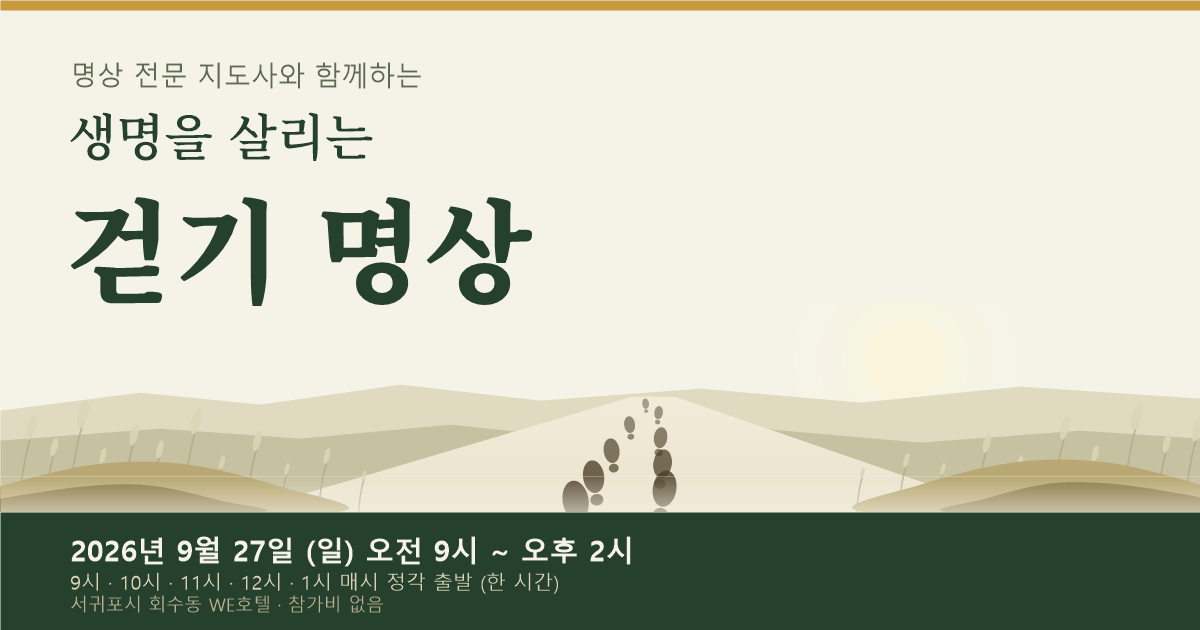
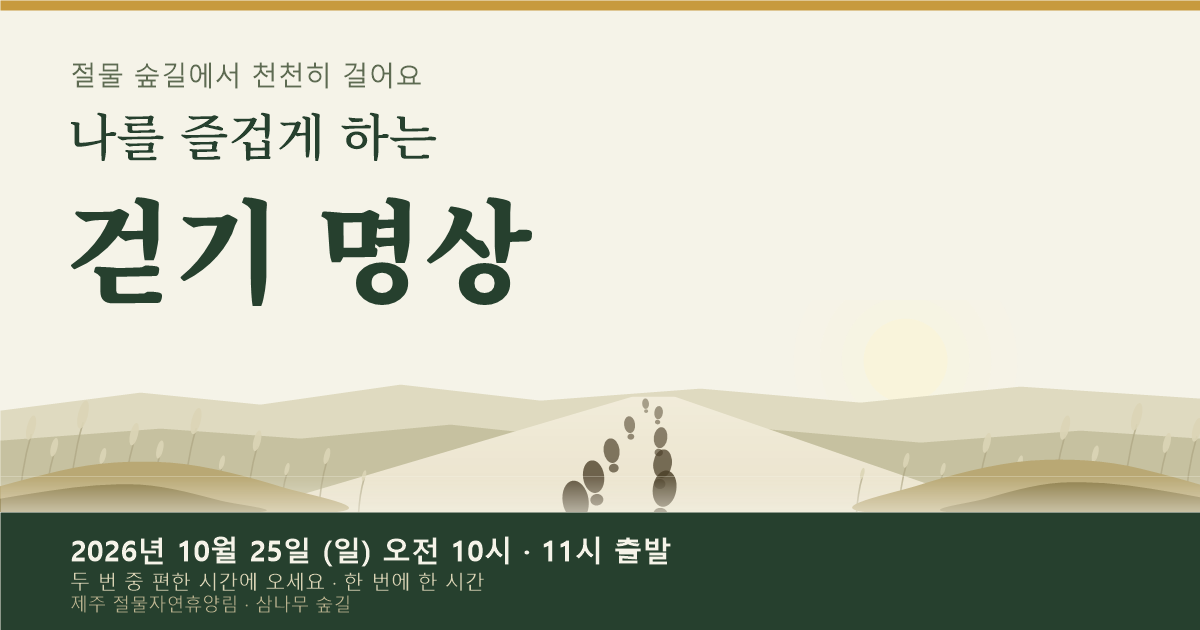
행사 교체: 나를 즐겁게 하는 걷기명상 (절물자연휴양림)
- 2026-10-25 제주 절물자연휴양림, 오전 10시·11시 출발로 전면 개편
- 지도를 절물자연휴양림 안내도로 교체, 걷기 코스 핀 재배치
- og.png·make-og.ps1 새 행사로 갱신, 신청·문의는 번호만 표기

Changed region(s): [[0.0617, 0.8444, 0.555, 0.9952], [0.0617, 0.181, 0.37, 0.2714], [0.0617, 0.0905, 0.37, 0.1508]]

diff --git a/index.html b/index.html
@@ -4,24 +4,24 @@
 <meta charset="utf-8">
 <meta name="viewport" content="width=device-width, initial-scale=1">
 <meta name="theme-color" content="#F5F3E8">
-<meta name="description" content="2026년 9월 27일(일) 오전 9시 · 10시 · 11시 · 낮 12시 · 오후 1시 출발 (한 시간) · 서귀포시 회수동 WE호텔 · 참가비 없음">
+<meta name="description" content="2026년 10월 25일(일) 오전 10시 · 11시 출발 (한 시간) · 제주 절물자연휴양림 삼나무 숲길 · 가족, 친구와 함께">
 <link rel="canonical" href="https://aassan9979-art.github.io/walking-meditation-poster/">
 <meta property="og:type" content="website">
 <meta property="og:url" content="https://aassan9979-art.github.io/walking-meditation-poster/">
 <meta property="og:locale" content="ko_KR">
-<meta property="og:title" content="생명을 살리는 걷기명상">
-<meta property="og:description" content="2026년 9월 27일(일) 오전 9시 · 10시 · 11시 · 낮 12시 · 오후 1시 출발 (한 시간) · 서귀포시 회수동 WE호텔 · 참가비 없음">
+<meta property="og:title" content="나를 즐겁게 하는 걷기명상">
+<meta property="og:description" content="2026년 10월 25일(일) 오전 10시 · 11시 출발 (한 시간) · 제주 절물자연휴양림 삼나무 숲길 · 가족, 친구와 함께">
 <meta property="og:image" content="https://aassan9979-art.github.io/walking-meditation-poster/og.png">
 <meta property="og:image:secure_url" content="https://aassan9979-art.github.io/walking-meditation-poster/og.png">
 <meta property="og:image:type" content="image/png">
 <meta property="og:image:width" content="1200">
 <meta property="og:image:height" content="630">
-<meta property="og:image:alt" content="생명을 살리는 걷기 명상 안내 — 2026년 9월 27일 서귀포 회수동 WE호텔, 오전 9시부터 오후 1시까지 매시 정각 출발">
+<meta property="og:image:alt" content="나를 즐겁게 하는 걷기명상 안내 — 2026년 10월 25일 제주 절물자연휴양림, 오전 10시·11시 출발">
 <meta name="twitter:card" content="summary_large_image">
-<meta name="twitter:title" content="생명을 살리는 걷기명상">
-<meta name="twitter:description" content="2026년 9월 27일(일) 오전 9시 · 10시 · 11시 · 낮 12시 · 오후 1시 출발 (한 시간) · 서귀포시 회수동 WE호텔 · 참가비 없음">
+<meta name="twitter:title" content="나를 즐겁게 하는 걷기명상">
+<meta name="twitter:description" content="2026년 10월 25일(일) 오전 10시 · 11시 출발 (한 시간) · 제주 절물자연휴양림 삼나무 숲길 · 가족, 친구와 함께">
 <meta name="twitter:image" content="https://aassan9979-art.github.io/walking-meditation-poster/og.png">
-<title>생명을 살리는 걷기명상</title>
+<title>나를 즐겁게 하는 걷기명상</title>
 <link rel="preconnect" href="https://fonts.googleapis.com">
 <link rel="preconnect" href="https://fonts.gstatic.com" crossorigin>
 <link rel="stylesheet" href="https://fonts.googleapis.com/css2?family=Gowun+Batang:wght@400;700&family=Noto+Serif+KR:wght@700;900&family=IBM+Plex+Sans+KR:wght@300;400;500;600&display=swap">
@@ -304,14 +304,14 @@
       <div class="topbar"></div>
 
       <header class="head">
-        <p class="eyebrow">자살예방 · 생명존중 걷기명상</p>
-        <p class="kicker">명상 전문 지도사와 함께하는</p>
-        <h1><span class="l1">생명을 살리는</span><span class="l2">걷기 명상</span></h1>
+        <p class="eyebrow">제주 절물자연휴양림 · 삼나무 숲길</p>
+        <p class="kicker">절물 숲길에서 천천히 걸어요</p>
+        <h1><span class="l1">나를 즐겁게 하는</span><span class="l2">걷기 명상</span></h1>
         <div class="tick"></div>
       </header>
 
       <div class="forest">
-        <svg viewBox="0 0 794 140" preserveAspectRatio="xMidYMax slice" role="img" aria-label="한가위 보름달이 뜬 가을 숲길, 억새 사이로 발자국이 멀어진다">
+        <svg viewBox="0 0 794 140" preserveAspectRatio="xMidYMax slice" role="img" aria-label="달빛 어린 가을 숲길, 억새 사이로 발자국이 멀어진다">
           <defs>
             <linearGradient id="sky" x1="0" y1="0" x2="0" y2="1">
               <stop offset="0" stop-color="#EDE7D4"></stop>
@@ -443,24 +443,24 @@
       </div>
 
       <div class="lede">
-        <p class="big">숲길을 천천히 걷는 한 시간,<br>나를 살리고 이웃을 살리는 <br class="br-mo">시간입니다.</p>
-        <p class="small">명상이 처음이셔도 괜찮습니다.<br>그저 오셔서 걸으시면 됩니다.</p>
-        <p class="invite">오실 때 주변 세 분과 함께 오시면 <br class="br-mo">더욱 좋습니다.</p>
+        <p class="big">삼나무 숲을 천천히 걸으며<br>몸과 마음을 가볍게 <br class="br-mo">풀어 보세요.</p>
+        <p class="small">명상이 처음이어도 괜찮습니다.<br>가족, 친구와 함께 오셔도 좋습니다.</p>
+        <p class="invite">미리 알려주시면 준비에 큰 도움이 됩니다.<br>아래 번호로 이름과 참가 시간을 <br class="br-mo">알려주세요.</p>
       </div>
 
       <p class="times">
-        <b>출발</b>오전 9시 · 10시 · 11시<span class="sep"> · </span><br class="br-mo">낮 12시 · 오후 1시
-        <span>다섯 번 · 한 번에 한 시간 · 편한 시간에 오세요</span>
+        <b>출발</b>오전 10시<span class="sep"> · </span>오전 11시
+        <span>두 번 중 편한 시간에 오세요 · 한 번에 한 시간</span>
       </p>
 
       <p class="flow">이완명상 · 걷기명상 · 산과 나무 명상 · 마무리</p>
 
       <section class="facts">
         <dl>
-          <div class="row"><dt>날짜</dt><dd class="key">2026년 9월 27일 (일) <small>오전 9시 ~ 오후 2시</small></dd></div>
-          <div class="row"><dt>장소</dt><dd>서귀포시 회수동 WE호텔 <small>메가와티공원 · 편백숲</small></dd></div>
-          <div class="row"><dt>참가비</dt><dd><em>없음</em> <small>기념품과 사은품을 드립니다</small></dd></div>
-          <div class="row"><dt>문의 · 접수</dt><dd><a href="tel:010-2699-3001">고경봉 010-2699-3001</a><br><a href="tel:010-2575-8810">최혜광 010-2575-8810</a></dd></div>
+          <div class="row"><dt>날짜</dt><dd class="key">2026년 10월 25일 (일)</dd></div>
+          <div class="row"><dt>출발</dt><dd>오전 10시 · 오전 11시 <small>두 번 중 편한 시간</small></dd></div>
+          <div class="row"><dt>장소</dt><dd>제주 절물자연휴양림 <small>삼나무 숲길</small></dd></div>
+          <div class="row"><dt>신청 · 문의</dt><dd><a href="tel:010-2699-3001">010-2699-3001</a><br><a href="tel:010-2575-8810">010-2575-8810</a></dd></div>
         </dl>
       </section>
 
@@ -477,7 +477,7 @@
       <div class="topbar"></div>
 
       <header class="head">
-        <p class="eyebrow">생명을 살리는 걷기명상</p>
+        <p class="eyebrow">나를 즐겁게 하는 걷기명상</p>
         <h2 class="title2">오시는 길과 걷는 순서</h2>
         <div class="tick"></div>
       </header>
@@ -485,38 +485,41 @@
       <div class="mapwrap">
         <figure class="mapfig">
           <div class="mapimg">
-            <img src="map.jpg" alt="WE호텔 숲 안내도. 호텔 건물 아래쪽에 메가와티가든이 있고, 그 아래 편백나무숲이 있습니다." width="1500" height="1058">
-            <span class="pin" style="left:29%;top:40%;">1</span>
-            <span class="pin pin--park" style="left:49%;top:40%;">P</span>
-            <span class="pin" style="left:26%;top:62%;">2</span>
-            <span class="pin" style="left:33%;top:77%;">3</span>
+            <img src="map.jpg" alt="절물자연휴양림 안내도. 매표소·분수대에서 출발해 나눔길·잔디광장·연못·장생의숲길 입구·삼울길을 돌아 분수대로 돌아오는 숲길입니다." width="2220" height="1890">
+            <span class="pin" style="left:23%;top:81%;">1</span>
+            <span class="pin" style="left:10%;top:67%;">2</span>
+            <span class="pin" style="left:32%;top:59%;">3</span>
+            <span class="pin" style="left:47%;top:58%;">4</span>
+            <span class="pin" style="left:63%;top:80%;">5</span>
+            <span class="pin" style="left:45%;top:84%;">6</span>
+            <span class="pin pin--park" style="left:33%;top:90%;">P</span>
           </div>
-          <figcaption>WE호텔 숲 안내도 · 지도 제공 WE호텔</figcaption>
+          <figcaption>절물자연휴양림 안내도 · 지도 제공 절물자연휴양림</figcaption>
         </figure>
       </div>
 
       <section class="route">
         <ol>
-          <li><span class="n">1</span><b>접수</b> <em>— WE호텔 입구 또는 메가와티공원 입구에서 이름을 적어 주세요</em></li>
-          <li><span class="n">2</span><b>이완명상과 걷기명상 안내</b> <em>— 메가와티가든에서 시작합니다</em></li>
-          <li><span class="n">3</span><b>걷기명상, 그리고 산과 나무 명상</b> <em>— 메가와티가든에서 편백나무숲까지</em></li>
-          <li><span class="n">4</span><b>돌아와 마무리</b> <em>— 다시 메가와티가든에서 기념촬영과 기념품</em></li>
+          <li><span class="n">1</span><b>분수대</b> <em>— 매표소(매점) 앞에 모여 분수대에서 출발합니다</em></li>
+          <li><span class="n">2</span><b>나눔길</b> <em>— 숲으로 들어서며 이완명상</em></li>
+          <li><span class="n">3</span><b>잔디광장</b> <em>— 넓은 잔디밭을 지나 걷기명상</em></li>
+          <li><span class="n">4</span><b>연못</b> <em>— 물가에서 잠시 멈춰 호흡을 고릅니다</em></li>
+          <li><span class="n">5</span><b>장생의숲길 입구</b> <em>— 삼나무 숲으로 들어섭니다</em></li>
+          <li><span class="n">6</span><b>삼울길</b> <em>— 삼나무 울창한 숲길을 걸어 분수대로 돌아옵니다</em></li>
         </ol>
-        <p class="note">오전 9시 · 10시 · 11시 · 낮 12시 · 오후 1시,<br>매시 정각에 출발합니다.<br>걷기 편한 신발과 마실 물을 <br class="br-mo">준비하시면 좋습니다.</p>
+        <p class="note">오전 10시 · 오전 11시, 두 번 출발합니다.<br>걷기 편한 신발과 마실 물을 <br class="br-mo">준비하시면 좋습니다.</p>
       </section>
 
       <section class="facts">
         <dl>
-          <div class="row"><dt>접수처</dt><dd>WE호텔 입구 <small class="mid">또는</small> 메가와티공원 입구 <small>— 지도의 1</small></dd></div>
-          <div class="row"><dt>주차</dt><dd>호텔 안 주차장 <small>— 지도의 P</small></dd></div>
+          <div class="row"><dt>집결처</dt><dd>매표소(매점) 앞 <small>— 지도의 1</small></dd></div>
+          <div class="row"><dt>주차</dt><dd>휴양림 주차장 <small>— 지도의 P</small></dd></div>
         </dl>
       </section>
 
       <div class="topbar"></div>
     </div>
   </div>
-
-  <p class="apply"><a href="https://aassan9979-art.github.io/walking-meditation-poster/apply/">참가 신청하기</a></p>
 </div>
 
 <script>
